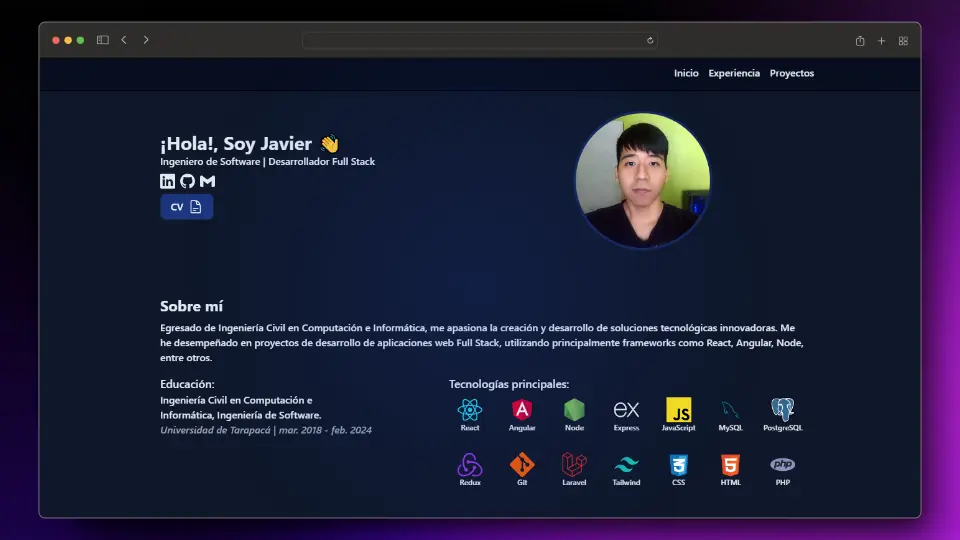
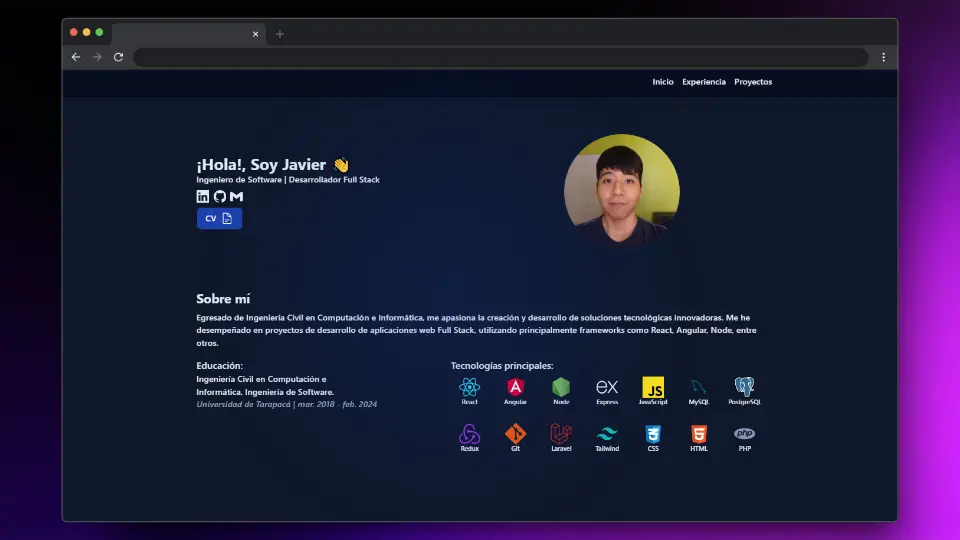
multicarrousel

diff --git a/src/components/MultiCarouselTechnologies.jsx b/src/components/MultiCarouselTechnologies.jsx
@@ -2,6 +2,7 @@ import React from 'react';
 import Slider from 'react-slick';
 import 'slick-carousel/slick/slick.css';
 import 'slick-carousel/slick/slick-theme.css';
+import { space } from 'postcss/lib/list';
 
 function SampleNextArrow(props) {
   const { className, style, onClick, currentSlide } = props;
@@ -35,7 +36,7 @@ function SamplePrevArrow(props) {
   );
 }
 
-export default function MultiCarousel({ technologies }) {
+export default function MultiCarouselTechnologies({ technologies }) {
   const settings = {
     className: 'slider variable-width',
     infinite: false,
@@ -52,10 +53,21 @@ export default function MultiCarousel({ technologies }) {
         breakpoint: 1535,
         settings: {
           slidesToShow: 3,
-          slidesToScroll: 3,
+          slidesToScroll: 1,
           infinite: false,
           dots: false,
           arrows: false,
+          draggable: false,
+        },
+      },
+      {
+        breakpoint: 460,
+        settings: {
+          slidesToShow: 3,
+          slidesToScroll: 1,
+          infinite: false,
+          dots: false,
+          arrows: technologies.length > 4,
           draggable: false,
         },
       },
@@ -63,14 +75,16 @@ export default function MultiCarousel({ technologies }) {
   };
 
   return (
-    <div className='relative'>
+    <div className='relative -ml-1'>
       <Slider {...settings}>
         {technologies.map((tech, index) => (
           <div
             key={index}
-            className='text-xs bg-slate-700 rounded-full px-2 py-1'
+            className='pr-2' // Contenedor adicional con padding
           >
-            <span>{tech}</span>
+            <div className='text-xs bg-slate-700 rounded-full px-2 py-1'>
+              <span>{tech}</span>
+            </div>
           </div>
         ))}
       </Slider>

diff --git a/src/components/Projects.jsx b/src/components/Projects.jsx
@@ -1,6 +1,6 @@
 import React, { useState, useEffect } from 'react';
 import Video from './Video';
-import MultiCarousel from './MultiCarousel';
+import MultiCarouselTechnologies from './MultiCarouselTechnologies';
 import { projects } from '../helpers/constants';
 
 function Projects() {
@@ -33,10 +33,10 @@ function Projects() {
             return (
               <div
                 key={index}
-                className='bg-slate-800 rounded-lg overflow-hidden shadow-md'
+                className='bg-slate-800 rounded-lg overflow-hidden shadow-lg'
               >
-                <img className='w-full' src={project.img} alt='' />
-                <div className='p-4'>
+                <img className='w-full object-cover' src={project.img} alt='' />
+                <div className='p-4 h-48 xl:h-40 2xl:h-48'>
                   <h2 className='text-white text-lg font-semibold -mt-2'>
                     {project.title}
                   </h2>
@@ -50,8 +50,10 @@ function Projects() {
                       </span>
                     ))}
                   </div> */}
-                  <MultiCarousel technologies={project.technologies} />
-                  <p className='text-white h-20 2xl:h-28 text-balance'>
+                  <MultiCarouselTechnologies
+                    technologies={project.technologies}
+                  />
+                  <p className='text-white text-pretty mt-1'>
                     {project.description}
                   </p>
                 </div>

diff --git a/src/helpers/constants.jsx b/src/helpers/constants.jsx
@@ -207,7 +207,7 @@ export const projects = [
       'Notifications',
     ],
     description:
-      'Aplicación móvil para gestionar mediante notificaciones tareas dependiendo la hora en que se inician estas, se puede agregar, editar, eliminar o dividir las tareas.',
+      'Aplicación móvil para gestionar mediante notificaciones tareas dependiendo de la hora en que se inician estas, se puede agregar, editar, eliminar o dividir en paginas las tareas.',
     img: '/timingTasks.webp',
     github: 'https://github.com/ZeyronJ/timing-tasks',
     web: '',
@@ -237,7 +237,7 @@ export const projects = [
     title: 'Simulador VR para el área de redes',
     technologies: ['Unity', 'C#', 'Lentes Meta Quest'],
     description:
-      'Usando realidad virtual se simula un entorno controlado para la enseñanza de redes de computadores, se pueden realizar pruebas de conexión, configuración de dispositivos, entre otros.',
+      'Usando realidad virtual se simula un entorno controlado para la enseñanza de redes computacionales, se pueden realizar pruebas de conexión, configuración de dispositivos, entre otros.',
     img: '/redes.webp',
     github: 'https://github.com/ZeyronJ/redes-VR',
     web: '',
